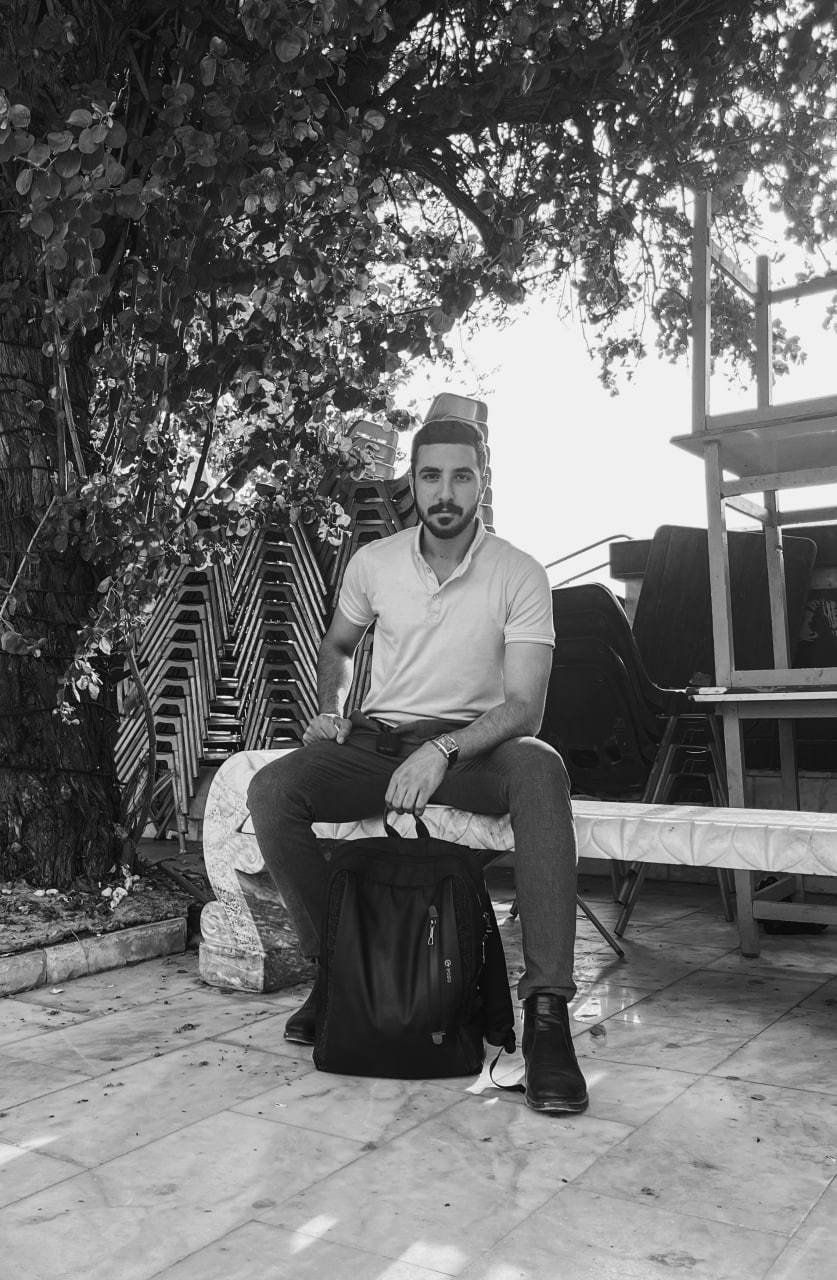
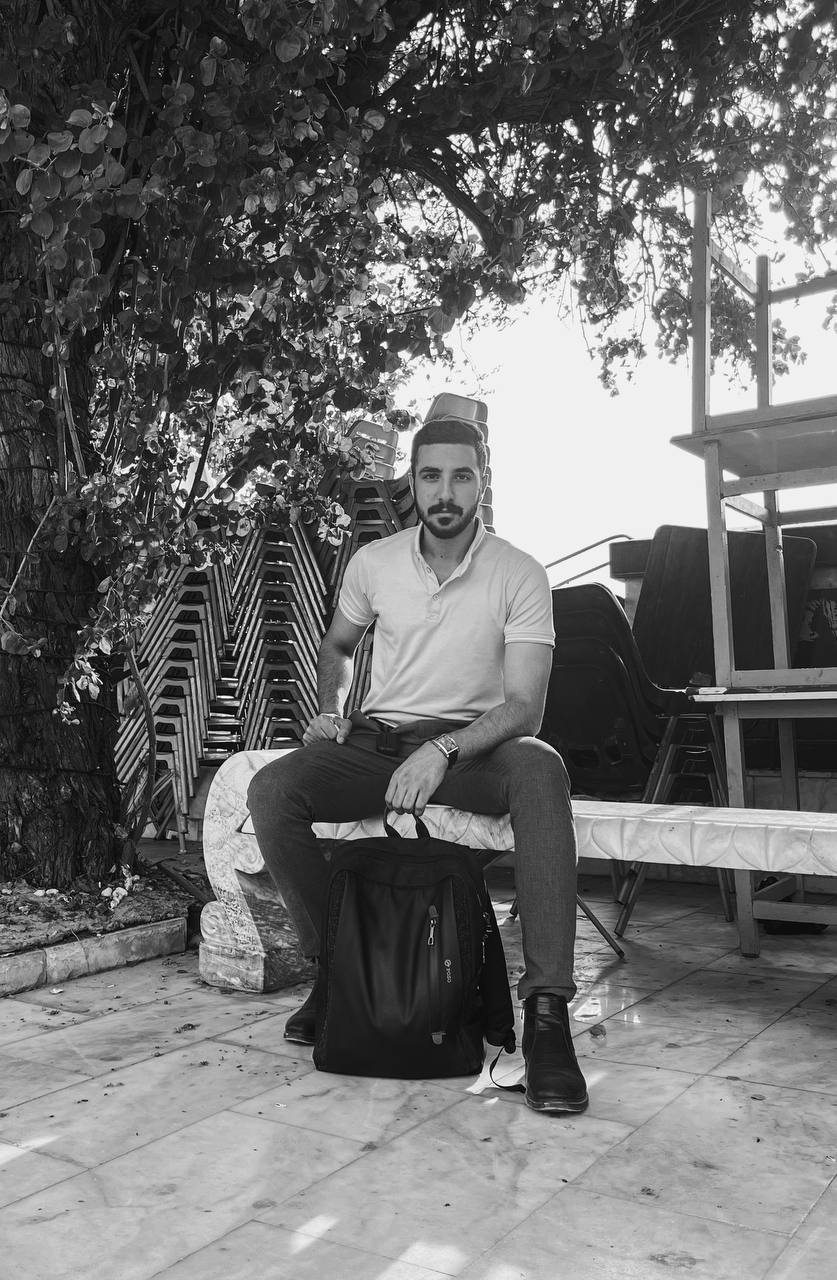
Image resolution update, and ahmedphoto attempt fix.

diff --git a/app/components/social-card.js b/app/components/social-card.js
@@ -8,8 +8,8 @@ export default function SocialCard({ alt, title, imgSrc, socialLink }) {
           alt={alt}
           src={imgSrc}
           className="object-cover h-[30px] w-[30px] rounded-md drop-shadow-md"
-          width="30"
-          height="30"
+          width="60"
+          height="60"
         />
         <p>{title}</p>
       </div>

diff --git a/app/components/work-post.js b/app/components/work-post.js
@@ -17,8 +17,8 @@ export default function WorkPost({ alt, title, imgSrc, figProtoLink }) {
         alt={alt}
         src={imgSrc}
         className="object-cover w-full h-full rounded-md drop-shadow-[0_5px_8px_rgba(0,0,0,0.5)]"
-        width="350"
-        height="350"
+        width="1080"
+        height="1080"
       />
 
       <div
